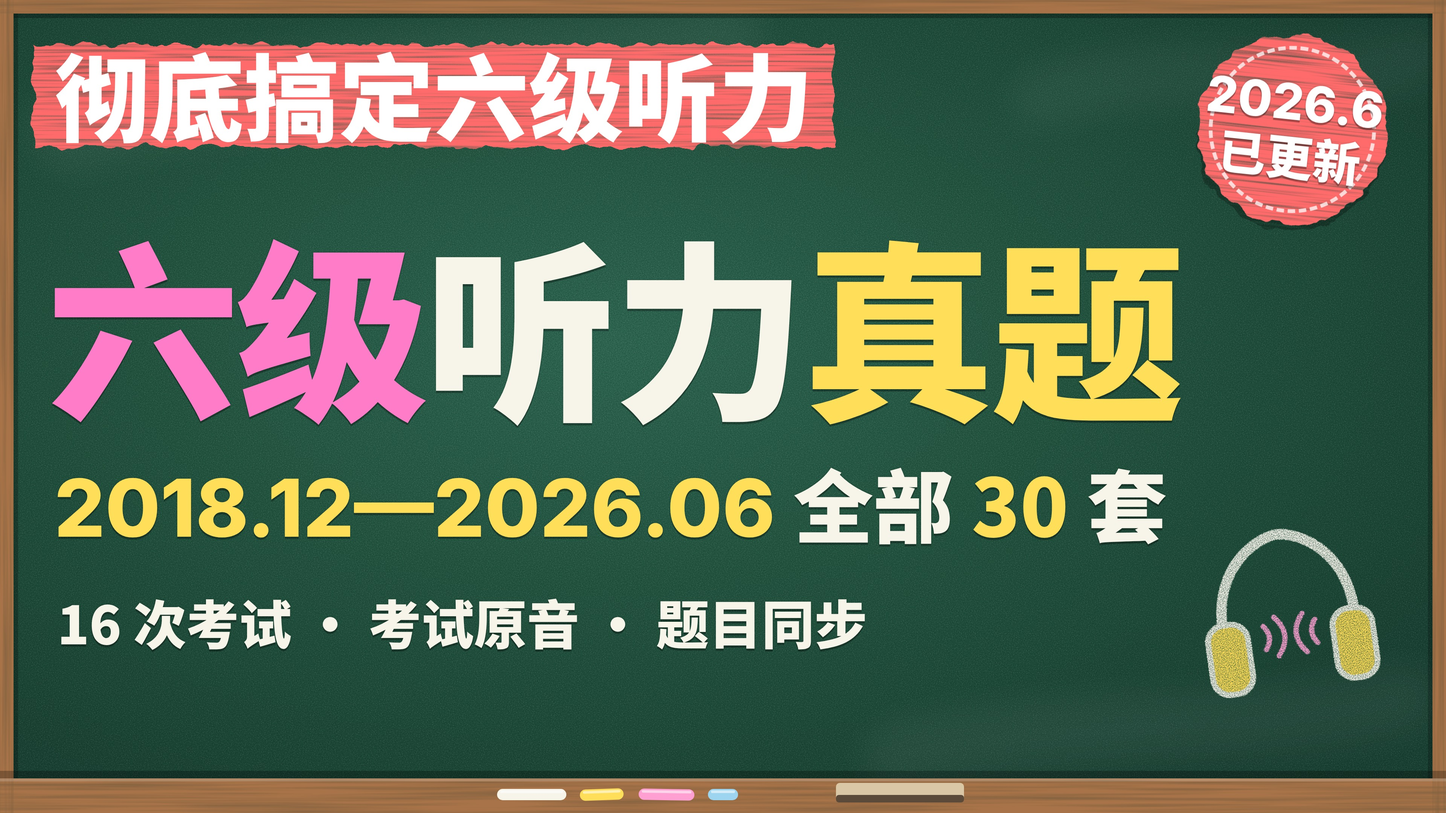
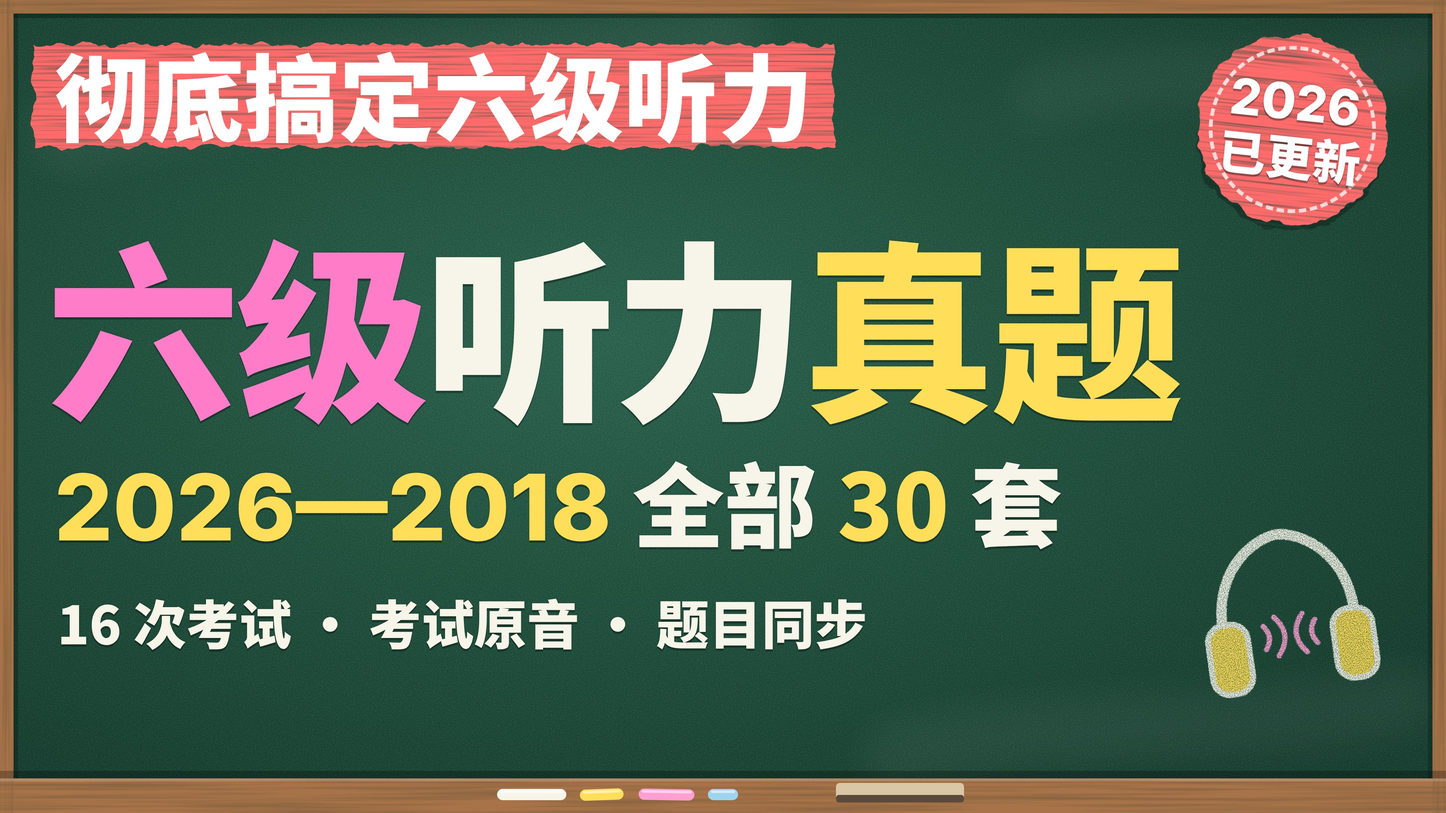
六级听力 B站封面：年份改成 2026—2018（新的在前）、不写月份；标题与简介同步
Claude-Session: https://claude.ai/code/session_01BA1TPCmk6LQSZfmadtrPdK

Changed region(s): [[0.0312, 0.5583, 0.8125, 0.6824], [0.8125, 0.0931, 0.9688, 0.1551]]

diff --git a/六级/听力/封面/系列封面.py b/六级/听力/封面/系列封面.py
@@ -5,7 +5,7 @@
     /opt/ttsenv/bin/python 六级/听力/封面/系列封面.py --自检      # 双向验证：字号×0.5 时每个 data-min 元素都要报，正常字号 0 处
 
 老师要求（2026-11-04）：突出“六级听力真题”“彻底搞定六级听力”，大字为主；30 套、2018—2026 年写得非常明白；不写 4K、精读。
-套数、考试次数、起止年月全部从 六级/听力/<yyyymm-n>/ 目录现算（踩坑 70），并与 .github/cet6-listening-all.txt 核对；不印“02 / 09”编号。
+套数、考试次数、起止年份全部从 六级/听力/<yyyymm-n>/ 目录现算（踩坑 70），并与 .github/cet6-listening-all.txt 核对；不印“02 / 09”编号。
 渲染后程序自查（同 六级作文/封面/系列封面.py 的 CHECK_JS）：文字不出画、不压木框、不进 B 站底角遮挡区、互不重叠、字体全部加载；
 data-min 元素缩到高 180 后最小字号不低于下限（主标题 24、钩子 13、卖点 10 像素，踩坑 76）。
 """
@@ -48,8 +48,8 @@ M0, M1 = min(EXAMS[Y0]), max(EXAMS[Y1])
 N_EXAM = sum(len(v) for v in EXAMS.values())
 assert (N, N_EXAM, Y0, M0, Y1, M1) == (30, 16, 2018, 12, 2026, 6), (N, N_EXAM, Y0, M0, Y1, M1)   # 数据一变先核对封面说法
 assert YEARS == list(range(Y0, Y1 + 1))                        # 年份连续，“全部真题”的年份一排才成立
-SPAN = f'{Y0}.{M0}—{Y1}.{M1:02d}'                               # 2018.12—2026.06
-NEWEST = f'{Y1}.{M1}'
+SPAN = f'{Y1}—{Y0}'          # 2026—2018：新的年份在前、不写月份（老师 2026-11-04）
+NEWEST = f'{Y1}'
 
 CHALK, YEL, PNK, BLU, INK, HOT = L.CHALK, L.YEL, L.PNK, L.BLU, L.INK, L.HOT
 RED = W.RED
@@ -67,7 +67,7 @@ def y(t):
 
 
 def seal(x, y_, d, rot=8):
-    """“2026.6 已更新”粉笔红圆章。"""
+    """“2026 已更新”粉笔红圆章。"""
     return (f'<div class="ab" data-k="seal" data-min="{MIN_SELL}" style="left:{x}px;top:{y_}px;width:{d}px;height:{d}px;transform:rotate({rot}deg);'
             f'display:flex;flex-direction:column;align-items:center;justify-content:center;line-height:1.05;color:#fff">'
             f'<i style="position:absolute;inset:0;border-radius:50%;background:{RED};filter:url(#rough);box-shadow:0 8px 0 rgba(0,0,0,.3)"></i>'
@@ -90,7 +90,7 @@ def phones(x, y_, s, rot=-8, k='deco'):
 def years(size, mr=10, pad=16, ys=None):
     """年份一排：2018 … 2026 全写出来，最新一年粉笔黄底（框的左右内边距收小，9 个年份一行放得下）。"""
     out, size = '', round(size * K, 1)
-    for yy in (ys or YEARS):
+    for yy in (ys or YEARS[::-1]):           # 2026 在前
         inner = f'<span class="lat" style="color:{INK}">{yy}</span>' if yy == Y1 else f'<span class="lat">{yy}</span>'
         b = L.badge(inner, size, border=YEL if yy == Y1 else CHALK, fill=YEL if yy == Y1 else 'rgba(0,0,0,.18)', mr=mr)
         out += b.replace('padding:8px 26px 10px', f'padding:6px {pad}px 8px', 1)
@@ -113,13 +113,13 @@ def A(w=1920, h=1080):
 <div class="ab ck" data-k="title" data-min="{MIN_TITLE}" style="left:54px;top:226px;font:900 {fs(220)}/1 Black;letter-spacing:-.02em">{SIX}听力<br><span style="color:{YEL}">真题</span></div>
 {phones(1010, 470, 1.15)}
 <div class="ab ck" data-k="years" data-min="{MIN_SELL}" style="left:60px;top:700px;font:900 {fs(88)}/1.18 Black">
- <span class="lat">{y(SPAN)}</span><br>全部真题 {y(N)} 套</div>""")
+ <span class="lat" style="font-size:1.2em">{y(SPAN)}</span><br>全部真题 {y(N)} 套</div>""")
     return board(w, h, f"""
 <div class="ab" data-k="hook" data-min="{MIN_HOOK}" style="left:72px;top:48px;font:900 {fs(126)}/1.2 Black">{L.hl('彻底搞定六级听力', RED, ink='#fff', px=28)}</div>
 {seal(1590, 46, 252, rot=6)}
 <div class="ab ck" data-k="title" data-min="{MIN_TITLE}" style="left:62px;top:300px;font:900 {fs(256)}/1 Black;letter-spacing:-.02em">{SIX}听力<span style="color:{YEL}">真题</span></div>
 {phones(1580, 690, .86)}
-<div class="ab ck" data-k="years" data-min="{MIN_SELL}" style="left:72px;top:604px;font:900 {fs(106)}/1.2 Black">
+<div class="ab ck" data-k="years" data-min="{MIN_SELL}" style="left:72px;top:592px;font:900 {fs(122)}/1.2 Black">
  <span class="lat">{y(SPAN)}</span> 全部 {y(N)} 套</div>
 <div class="ab ck" data-k="sell" data-min="{MIN_SELL}" style="left:76px;top:784px;font:900 {fs(70)}/1.2 Black">{N_EXAM} 次考试 · 考试原音 · 题目同步</div>""")
 
@@ -129,8 +129,8 @@ def B(w=1920, h=1080):
     c = w / 2
     big = w >= 1900
     yr = years(60, mr=8, pad=14) if big else ''
-    yr43 = '' if big else (years(62, mr=10, pad=14, ys=[v for v in YEARS if v <= Y0 + 4]) + '<br>'
-                           + years(62, mr=10, pad=14, ys=[v for v in YEARS if v > Y0 + 4]))   # 4:3 一行放不下 9 个：分两行
+    yr43 = '' if big else (years(62, mr=10, pad=14, ys=YEARS[::-1][:5]) + '<br>'
+                           + years(62, mr=10, pad=14, ys=YEARS[::-1][5:]))   # 4:3 一行放不下 9 个：分两行
     return board(w, h, f"""
 <div class="ab" data-k="hook" data-min="{MIN_HOOK}" style="left:{c}px;transform:translateX(-50%);top:50px;white-space:nowrap;font:900 {fs(120 if big else 100)}/1.15 Black">
  <span class="ck">彻底搞定</span><span class="ck" style="color:{RED}">六级听力</span><span class="ck">！</span></div>
@@ -147,7 +147,7 @@ def C(w=1920, h=1080):
     rows = ''
     for yy in reversed(YEARS):
         ms = EXAMS[yy]
-        mon = ' · '.join(f'{m}月' for m in sorted(ms, reverse=True))
+        mon = f'{len(ms)} 次考试'                # 不写月份
         rows += (f'<div style="display:flex;align-items:baseline;gap:22px">'
                  f'<span class="lat" style="color:{YEL if yy == Y1 else CHALK};min-width:2.6em">{yy}</span>'
                  f'<span style="font-family:Black">{mon}</span>'

diff --git a/六级/听力/封面/标题与简介.py b/六级/听力/封面/标题与简介.py
@@ -11,14 +11,14 @@ assert sorted(SETS) == sorted((REPO / '.github/cet6-listening-all.txt').read_tex
 N = len(SETS)
 EXAMS = sorted({s[:6] for s in SETS})
 Y0, M0, Y1, M1 = int(EXAMS[0][:4]), int(EXAMS[0][4:]), int(EXAMS[-1][:4]), int(EXAMS[-1][4:])
-SPAN = f'{Y0}.{M0}—{Y1}.{M1:02d}'
+SPAN = f'{Y1}—{Y0}'                        # 2026 在前、不写月份（老师 2026-11-04）
 
-title = f'【六级听力真题】{Y0}-{Y1}大学英语六级听力真题全{N}套｜{Y1}年{M1}月已更新｜考试原音+题目同步+答案｜彻底搞定六级听力'
+title = f'【六级听力真题】{Y1}-{Y0}大学英语六级听力真题全{N}套｜{Y1}年已更新｜考试原音+题目同步+答案｜彻底搞定六级听力'
 tags = ['英语六级', '六级听力', '大学英语六级', 'CET6', '六级真题', '听力真题', '英语听力', '六级备考', '四六级', '英语学习']
 cat = [f'P{i} {s[:4]}年{int(s[4:6])}月 第{s[-1]}套' for i, s in enumerate(SETS, 1)]
 
 desc = f"""六级听力总是听不清、跟不上、选不对？
-这里是 {SPAN} 大学英语六级听力全部真题：{len(EXAMS)} 次考试、{N} 套，每套都做成了“视频版真题考试”，打开就能像在考场一样完整做一遍。
+这里是 {SPAN} 年大学英语六级听力全部真题：{len(EXAMS)} 次考试、{N} 套，每套都做成了“视频版真题考试”，打开就能像在考场一样完整做一遍。
 
 📌 每一套都有
 ✅ 考试原音原速：真题录音原样播放，不加速、不剪辑

diff --git a/六级/听力/封面/B站标题与简介.md b/六级/听力/封面/B站标题与简介.md
@@ -1,8 +1,8 @@
 # 六级听力 B站投稿文字（由 标题与简介.py 生成，数字现算）
 
-## 标题（64 字，上限 80）
+## 标题（62 字，上限 80）
 
-【六级听力真题】2018-2026大学英语六级听力真题全30套｜2026年6月已更新｜考试原音+题目同步+答案｜彻底搞定六级听力
+【六级听力真题】2026-2018大学英语六级听力真题全30套｜2026年已更新｜考试原音+题目同步+答案｜彻底搞定六级听力
 
 ## 标签（10 个，上限 10）
 
@@ -12,11 +12,11 @@
 
 `系列封面/六级听力真题30套_封面_16比9.jpg`、`_4比3.jpg`（`系列封面.py 定稿 A`）；B、C 的 16:9 作备选。
 
-## 简介（907 字，上限 2000）
+## 简介（902 字，上限 2000）
 
 ```
 六级听力总是听不清、跟不上、选不对？
-这里是 2018.12—2026.06 大学英语六级听力全部真题：16 次考试、30 套，每套都做成了“视频版真题考试”，打开就能像在考场一样完整做一遍。
+这里是 2026—2018 年大学英语六级听力全部真题：16 次考试、30 套，每套都做成了“视频版真题考试”，打开就能像在考场一样完整做一遍。
 
 📌 每一套都有
 ✅ 考试原音原速：真题录音原样播放，不加速、不剪辑
